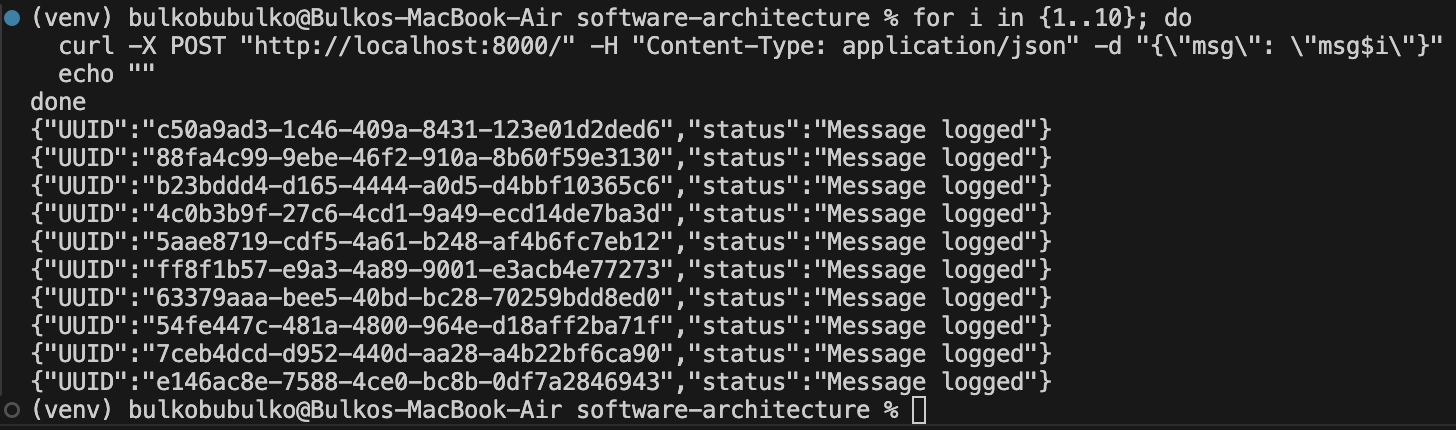
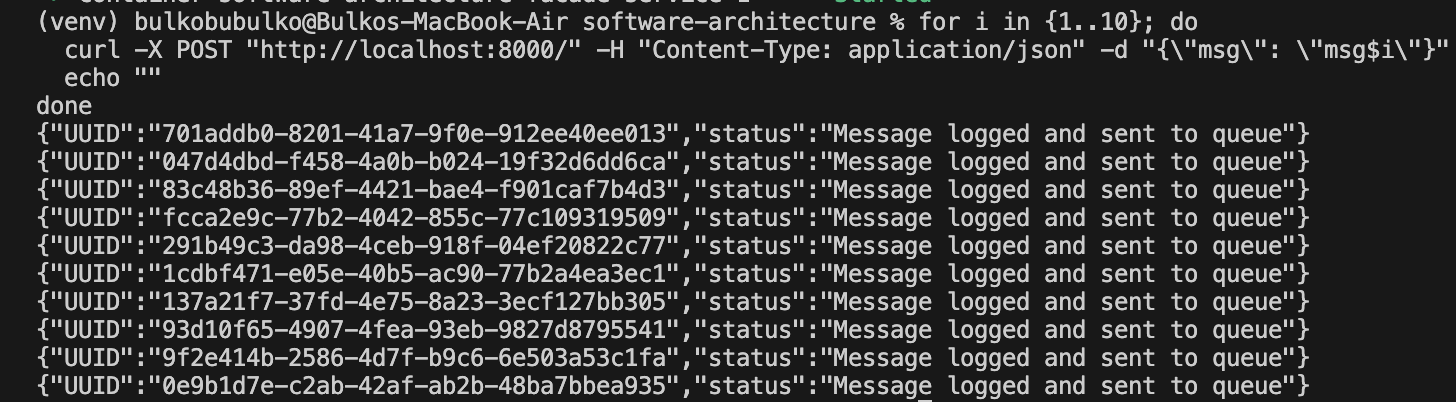
micro_mq done

Changed region(s): [[0.0, 0.0, 1.0, 1.0]]

diff --git a/facade-service/main.py b/facade-service/main.py
@@ -2,13 +2,19 @@ from fastapi import FastAPI, HTTPException
 from pydantic import BaseModel
 import httpx
 import uuid
-import asyncio
 import random
+import json
+import time
+from kafka import KafkaProducer
+from kafka.admin import KafkaAdminClient, NewTopic
 
 app = FastAPI()
 
 class Message(BaseModel):
     msg: str
+
+KAFKA_SERVERS = ['kafka-broker-1:9092', 'kafka-broker-2:9092', 'kafka-broker-3:9092']
+KAFKA_TOPIC = 'messages-topic'
 
 LOGGING_SERVICE_URLS = [
     "http://logging-service-1:8001",
@@ -16,42 +22,91 @@ LOGGING_SERVICE_URLS = [
     "http://logging-service-3:8001"
 ]
 
-MESSAGES_SERVICE_URL = "http://messages-service:8004"
+MESSAGES_SERVICE_URLS = [
+    "http://messages-service-1:8004",
+    "http://messages-service-2:8004"
+]
 
-MAX_RETRIES = 3
-RETRY_DELAY = 2
+producer = None
 
-async def send_with_retry(data, retries=MAX_RETRIES):
-    for attempt in range(retries):
+def init_kafka_producer():
+    global producer
+    max_retries = 10
+    for attempt in range(max_retries):
         try:
-            async with httpx.AsyncClient() as client:
-                response = await client.post(f"{random.choice(LOGGING_SERVICE_URLS)}/", json=data)
-                if response.status_code == 200:
-                    return response.json()
-        except httpx.RequestError as e:
-            print(f"Retry {attempt + 1}/{retries} failed: {e}")
-        await asyncio.sleep(RETRY_DELAY)
-    raise HTTPException(status_code=500, detail="Logging service failed after retries")
+            producer = KafkaProducer(
+                bootstrap_servers=KAFKA_SERVERS,
+                value_serializer=lambda v: json.dumps(v).encode('utf-8'),
+                acks='all'
+            )
+            create_topic_if_not_exists()
+            return True
+        except Exception as e:
+            print(f"Kafka connection error (attempt {attempt+1}/{max_retries}): {e}")
+            if attempt < max_retries - 1:
+                time.sleep(5)
+    return False
+
+def create_topic_if_not_exists():
+    try:
+        admin_client = KafkaAdminClient(bootstrap_servers=KAFKA_SERVERS)
+        topic_list = [
+            NewTopic(
+                name=KAFKA_TOPIC, 
+                num_partitions=3,
+                replication_factor=3
+            )
+        ]
+        admin_client.create_topics(new_topics=topic_list, validate_only=False)
+        print(f"Topic {KAFKA_TOPIC} created")
+    except Exception as e:
+        print(f"Topic error: {e}")
+
+@app.on_event("startup")
+async def startup_event():
+    init_kafka_producer()
 
 @app.post("/")
 async def post_message(message: Message):
     msg_id = str(uuid.uuid4())
     data = {"UUID": msg_id, "msg": message.msg}
-    response = await send_with_retry(data)
-    return {"UUID": msg_id, "status": "Message logged"}
+    try:
+        async with httpx.AsyncClient() as client:
+            logging_service = random.choice(LOGGING_SERVICE_URLS)
+            response = await client.post(f"{logging_service}/", json=data)
+            if response.status_code != 200:
+                print(f"Logging service error: {response.text}")
+    except Exception as e:
+        print(f"Logging service error: {e}")
+    if producer is None:
+        if not init_kafka_producer():
+            raise HTTPException(status_code=503, detail="Kafka unavailable")
+    try:
+        future = producer.send(KAFKA_TOPIC, data)
+        record_metadata = future.get(timeout=10)
+    except Exception as e:
+        raise HTTPException(status_code=500, detail=f"Failed to send to Kafka: {str(e)}")
+
+    return {"UUID": msg_id, "status": "Message logged and sent to queue"}
 
 @app.get("/")
 async def get_messages():
     try:
         async with httpx.AsyncClient() as client:
-            logging_response = await client.get(f"{random.choice(LOGGING_SERVICE_URLS)}/")
-            messages_response = await client.get(f"{MESSAGES_SERVICE_URL}/")
+            logging_service_url = random.choice(LOGGING_SERVICE_URLS)
+            logging_response = await client.get(f"{logging_service_url}/")
+            messages_service_url = random.choice(MESSAGES_SERVICE_URLS)
+            messages_response = await client.get(f"{messages_service_url}/")
+            return {
+                "logging_messages": logging_response.json(),
+                "messages_service": messages_response.json(),
+                "selected_logging_service": logging_service_url,
+                "selected_messages_service": messages_service_url
+            }
+    except Exception as e:
+        raise HTTPException(status_code=500, detail=str(e))
 
-            if logging_response.status_code != 200:
-                raise HTTPException(status_code=500, detail="Logging service failed")
-            if messages_response.status_code != 200:
-                raise HTTPException(status_code=500, detail="Mesages service failed")
-            
-            return f"{logging_response.json()} {messages_response.json()}"        
-    except Exception as exception:
-        raise HTTPException(status_code=500, detail=str(exception))
+@app.on_event("shutdown")
+def shutdown_event():
+    if producer:
+        producer.close()

diff --git a/messages-service/main.py b/messages-service/main.py
@@ -1,7 +1,40 @@
 from fastapi import FastAPI
+import json
+import os
+import threading
+import time
+from kafka import KafkaConsumer
 
 app = FastAPI()
 
+kafka_servers = os.environ.get('KAFKA_BOOTSTRAP_SERVERS', 'kafka-broker-1:9092,kafka-broker-2:9092,kafka-broker-3:9092').split(',')
+kafka_topic = os.environ.get('KAFKA_TOPIC', 'messages-topic')
+service_id = os.environ.get('SERVICE_ID', '1')
+
+messages = {}
+
+def consume_messages():    
+    while True:
+        try:
+            consumer = KafkaConsumer(
+                kafka_topic,
+                bootstrap_servers=kafka_servers,
+                group_id='messages-service-group',
+                auto_offset_reset='earliest',
+                value_deserializer=lambda m: json.loads(m.decode('utf-8')),
+                enable_auto_commit=True
+            )
+            for message in consumer:
+                data = message.value
+                if 'UUID' in data and 'msg' in data:
+                    messages[data['UUID']] = data['msg']
+                    print(f"Service {service_id} received message: {data}")
+        except Exception as e:
+            time.sleep(5)
+
+consumer_thread = threading.Thread(target=consume_messages, daemon=True)
+consumer_thread.start()
+
 @app.get("/")
-async def get_message():
-    return "messages-service is not implemented yet"
+async def get_messages():
+    return {"service_id": service_id, "messages": messages}

diff --git a/readme.md b/readme.md
@@ -1,17 +1,16 @@
-# Task 3 - Microservices using Hazelcast Distributed Map
+# Task 4 - Microservices using Messaging queue
 
 ## Microservices architecture
-![microservices-architecture-0](data/microservices-architecture-0.png)
-![microservices-architecture-1](data/microservices-architecture-1.png)
-
 For this task we update architecture as such:
-![microservices-architecture-2](data/microservices-architecture-2.png)
+![microservices-architecture](data/microservices-architecture.png)
 
 ## Architecture consists of three microservices:
 
-- facade-service – accepts POST/GET requests from the client
-- logging-service – stores all incoming messages in memory and can return them
-- messages-service – currently acts as a placeholder, returning a static message when accessed
+- facade-service – accepts POST/GET requests from the client;
+- logging-service – stores all incoming messages in memory and can return them;
+- messages-service – previously acted as a placeholder, returning a static message when accessed; in this task we update its functionality by using a **message queue** as the communication channel between the facade-service and the messages-service + make it possible to up several coppies of messages-service. now facade-service randomly chooses which copy of messages-service to access to read message. 
+
+[Kafka](https://hub.docker.com/r/apache/kafka) is used as the message queue.
 
 ## Build and run the services
 ```
@@ -28,7 +27,7 @@ done
 
 ![img-0](data/img-0.png)
 
-Check the logs to see which messages were received by each service
+Check the logs to see which messages were received by each logging service
 ```
 docker-compose logs logging-service-1
 docker-compose logs logging-service-2
@@ -37,27 +36,56 @@ docker-compose logs logging-service-3
 
 ![img-1](data/img-1.png)
 
+Check the logs to see which messages were received by each messages service
+```
+docker-compose logs messages-service-1
+docker-compose logs messages-service-2
+```
+
+![img-1](data/img-2.png)
 
 Get all messages
 ```
 curl -X GET "http://localhost:8000/"
 ```
 
-![img-2](data/img-2.png)
-
-Stop logging service
-```
-docker-compose stop logging-service-1
-```
-
 ![img-3](data/img-3.png)
 
-Get all messages after stopping loggin service
+
+Now lets do fault tolerance test!
+
+First we stop both message services
 ```
-curl -X GET "http://localhost:8000/"
+docker-compose stop messages-service-1 messages-service-2
 ```
 
 ![img-4](data/img-4.png)
 
-Even after stopping one of loggin services we still have all the messages!
+And send more messages
+```
+for i in {11..20}; do
+  curl -X POST "http://localhost:8000/" -H "Content-Type: application/json" -d "{\"msg\": \"msg$i\"}"
+  echo ""
+done
+```
 
+![img-5](data/img-5.png)
+
+Now we stop Kafka broker, here it chooses the leader 
+```
+docker-compose stop kafka-broker-1
+```
+
+![img-6](data/img-6.png)
+
+Start the message services again
+```
+docker-compose start messages-service-1 messages-service-2
+```
+![img-6](data/img-7.png)
+
+And lets get all messages. It shows that all messages were processed, even though one Kafka broker was down during the restart
+```
+curl -X GET "http://localhost:8000/"
+```
+![img-8](data/img-8.png)
